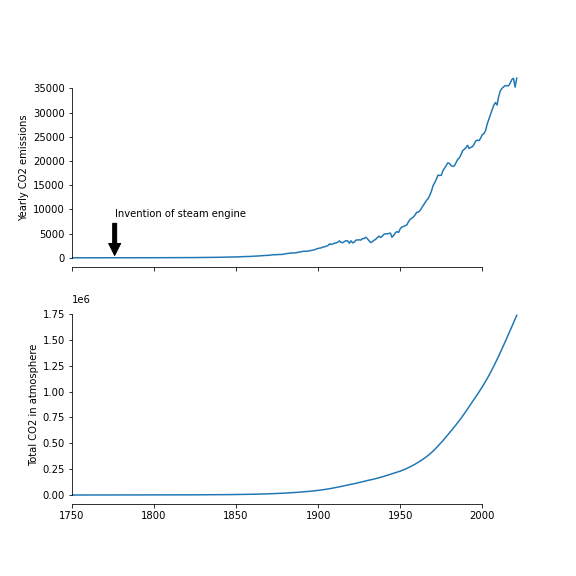
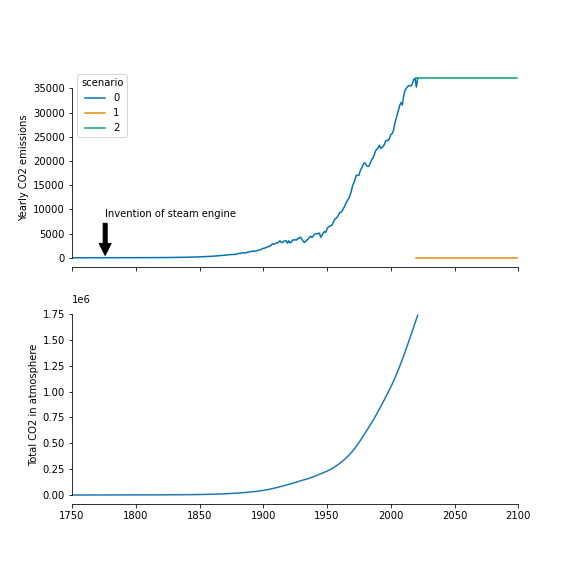
adding a few rough future projections

diff --git a/carbon_budget.py b/carbon_budget.py
@@ -5,28 +5,41 @@ Run with ssm_env on Windows
 
 import pandas as pd
 import seaborn as sns
+import numpy as np
 import matplotlib.pyplot as plt
 
 #% ===============================
 # get data from Our World in Data: https://github.com/owid/co2-data
 # codebook; https://github.com/owid/co2-data/blob/master/owid-co2-codebook.csv
 data = pd.read_csv('https://nyc3.digitaloceanspaces.com/owid-public/data/co2/owid-co2-data.csv')
-df = data.loc[data.country == 'World', ['year', 'co2', 'cumulative_co2']]
+df_historic = data.loc[data.country == 'World', ['year', 'co2', 'cumulative_co2']]
+df_historic['scenario'] = 0
 
-# to do: add different scenarios for emission reduction between 2020 and 2050
-
+# add different scenarios for emission reduction between 2020 and 2050
+df_future_1 = pd.DataFrame({'year':np.arange(2020, 2100), 
+                          'co2':np.zeros(80,),
+                          'scenario': 1})
+df_future_2 = pd.DataFrame({'year':np.arange(2020, 2100), 
+                          'co2':np.ones(80,) * df_historic.co2.values[-1],
+                          'scenario': 2})
+df = pd.concat([df_historic, df_future_1, df_future_2]).reset_index()
 print(data.head(n=10))
+
+# todo: for each scenario, integrate to get the cumulative CO2
 
 #% ===============================
 # now plot some historic CO2
 
 fig, ax = plt.subplots(2, 1, figsize=(8,8), 
                        sharex=True, sharey=False)
-sns.lineplot(data=df, x='year', y='co2', ax=ax[0]).set(xlim=[1750, 2022], 
-                                                       ylabel='Yearly CO2 emissions',
-                                                       xlabel='')
+sns.lineplot(data=df, x='year', y='co2', hue='scenario', palette='colorblind',
+             ax=ax[0]).set(xlim=[1750, 2100], 
+                           ylabel='Yearly CO2 emissions',
+                           xlabel='')
 sns.lineplot(data=df, x='year', y='cumulative_co2', 
              ax=ax[1]).set(ylabel='Total CO2 in atmosphere', xlabel='')
+
+# annotate
 ax[0].annotate('Invention of steam engine', 
                xy=(1776, 100),  xycoords='data',
                xytext=(1776, 10000), textcoords='data',
